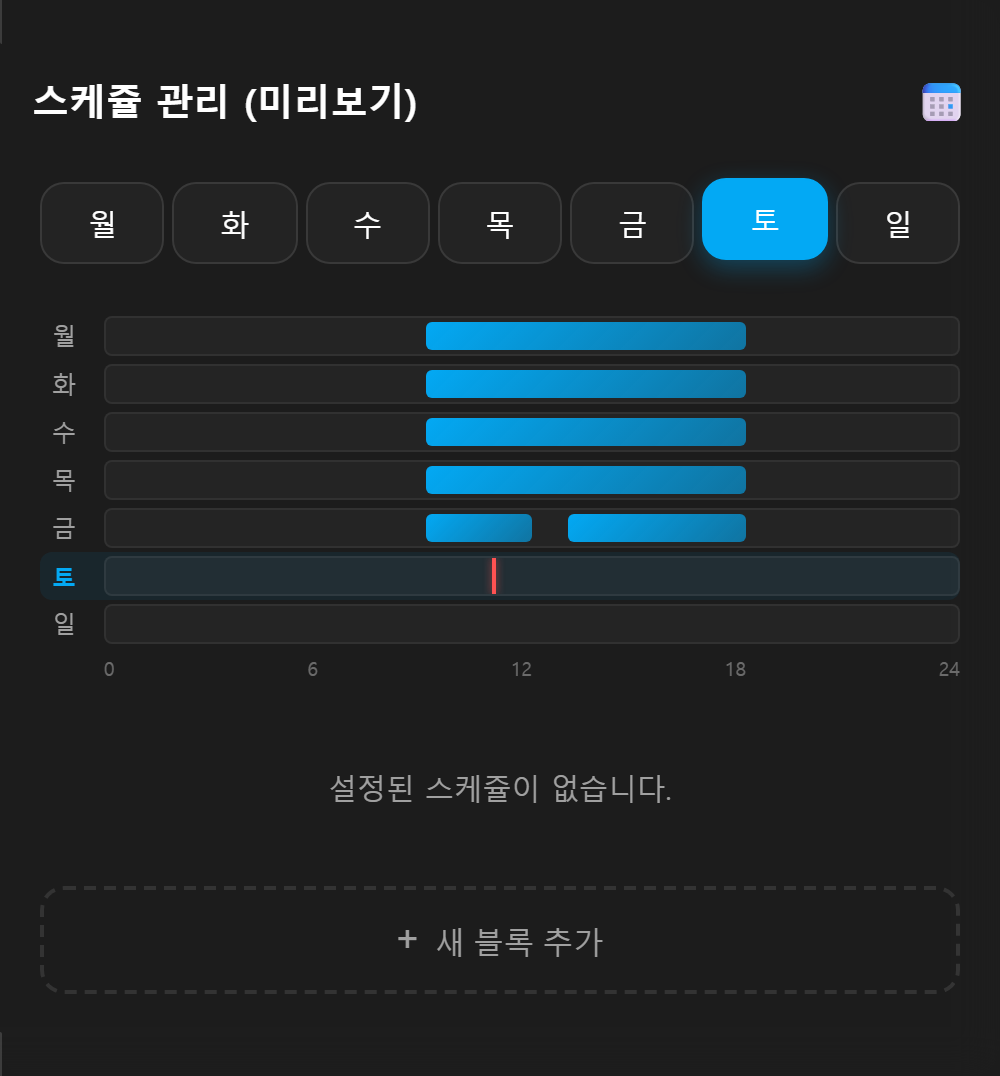
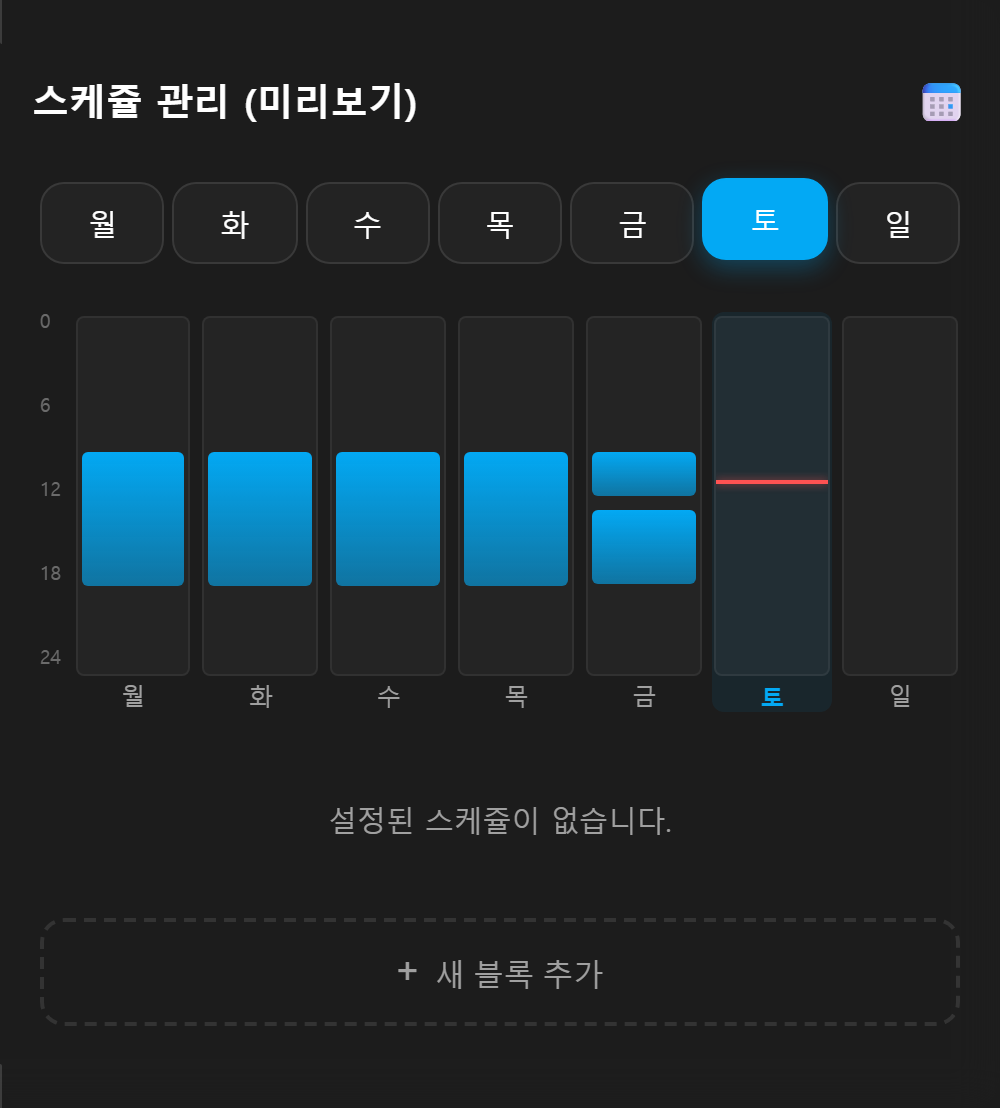
feat(timeline): change weekly timeline from horizontal to vertical layout

diff --git a/timer-schedule-card.js b/timer-schedule-card.js
@@ -417,43 +417,42 @@ class HaCustomScheduleCard extends LitElement {
 
             <!-- 주간 타임라인 -->
             <div class="weekly-timeline">
-              ${WEEKDAYS.map((day, idx) => {
-                const dayBlocks = renderData ? (renderData[day] || []) : [];
-                const isSelected = this._selectedDay === idx;
-                const MINUTES_IN_DAY = 1440;
-                return html`
-                  <div class="weekly-row ${isSelected ? 'selected' : ''}" @click="${() => { this._selectedDay = idx; this._showAddForm = false; }}">
-                    <span class="weekly-day-label">${this._t("daysShort")[idx]}</span>
-                    <div class="weekly-bar">
-                      ${dayBlocks.map(block => {
-                        const startMin = this._timeToMinutes(block.from);
-                        const endMin = this._timeToMinutes(block.to);
-                        const left = (startMin / MINUTES_IN_DAY) * 100;
-                        const width = ((endMin - startMin) / MINUTES_IN_DAY) * 100;
-                        return html`
-                          <div class="timeline-block" 
-                               style="left: ${left}%; width: ${Math.max(width, 0.5)}%;"
-                               title="${this._formatTime(block.from)} ~ ${this._formatTime(block.to)}">
-                          </div>
-                        `;
-                      })}
-                      ${(() => {
-                        const now = new Date();
-                        const todayIdx = (now.getDay() + 6) % 7;
-                        if (todayIdx !== idx) return '';
-                        const nowMin = now.getHours() * 60 + now.getMinutes();
-                        const pos = (nowMin / MINUTES_IN_DAY) * 100;
-                        return html`<div class="timeline-now" style="left: ${pos}%;"></div>`;
-                      })()}
+              <div class="timeline-time-labels">
+                <span>0</span><span>6</span><span>12</span><span>18</span><span>24</span>
+              </div>
+              <div class="weekly-columns">
+                ${WEEKDAYS.map((day, idx) => {
+                  const dayBlocks = renderData ? (renderData[day] || []) : [];
+                  const isSelected = this._selectedDay === idx;
+                  const MINUTES_IN_DAY = 1440;
+                  return html`
+                    <div class="weekly-col ${isSelected ? 'selected' : ''}" @click="${() => { this._selectedDay = idx; this._showAddForm = false; }}">
+                      <div class="weekly-bar-v">
+                        ${dayBlocks.map(block => {
+                          const startMin = this._timeToMinutes(block.from);
+                          const endMin = this._timeToMinutes(block.to);
+                          const top = (startMin / MINUTES_IN_DAY) * 100;
+                          const height = ((endMin - startMin) / MINUTES_IN_DAY) * 100;
+                          return html`
+                            <div class="timeline-block-v"
+                                 style="top: ${top}%; height: ${Math.max(height, 0.5)}%;"
+                                 title="${this._formatTime(block.from)} ~ ${this._formatTime(block.to)}">
+                            </div>
+                          `;
+                        })}
+                        ${(() => {
+                          const now = new Date();
+                          const todayIdx = (now.getDay() + 6) % 7;
+                          if (todayIdx !== idx) return '';
+                          const nowMin = now.getHours() * 60 + now.getMinutes();
+                          const pos = (nowMin / MINUTES_IN_DAY) * 100;
+                          return html`<div class="timeline-now-h" style="top: ${pos}%;"></div>`;
+                        })()}
+                      </div>
+                      <span class="weekly-day-label-v">${this._t("daysShort")[idx]}</span>
                     </div>
-                  </div>
-                `;
-              })}
-              <div class="timeline-labels">
-                <span class="weekly-day-label"></span>
-                <div class="timeline-labels-inner">
-                  <span>0</span><span>6</span><span>12</span><span>18</span><span>24</span>
-                </div>
+                  `;
+                })}
               </div>
             </div>
 
@@ -875,92 +874,99 @@ class HaCustomScheduleCard extends LitElement {
 
     /* ── 주간 타임라인 ── */
     .weekly-timeline {
+      display: flex;
+      gap: 6px;
       margin-bottom: 20px;
+      height: 200px;
     }
 
-    .weekly-row {
+    .timeline-time-labels {
       display: flex;
+      flex-direction: column;
+      justify-content: space-between;
+      padding-bottom: 22px;
+      flex-shrink: 0;
+    }
+
+    .timeline-time-labels span {
+      font-size: 0.6rem;
+      color: var(--custom-secondary);
+      opacity: 0.6;
+      line-height: 1;
+    }
+
+    .weekly-columns {
+      display: flex;
+      flex: 1;
+      gap: 4px;
+    }
+
+    .weekly-col {
+      display: flex;
+      flex-direction: column;
       align-items: center;
-      gap: 8px;
-      padding: 2px 0;
+      flex: 1;
+      gap: 4px;
       cursor: pointer;
       border-radius: 6px;
+      padding: 2px;
       transition: background 0.15s ease;
     }
 
-    .weekly-row:hover {
+    .weekly-col:hover {
       background: rgba(255,255,255,0.04);
     }
 
-    .weekly-row.selected {
+    .weekly-col.selected {
       background: rgba(3, 169, 244, 0.08);
     }
 
-    .weekly-row.selected .weekly-day-label {
+    .weekly-col.selected .weekly-day-label-v {
       color: var(--custom-primary);
       font-weight: 600;
     }
 
-    .weekly-day-label {
-      width: 24px;
-      font-size: 0.75rem;
-      color: var(--custom-secondary);
-      text-align: center;
-      flex-shrink: 0;
-    }
-
-    .weekly-bar {
+    .weekly-bar-v {
       position: relative;
       flex: 1;
-      height: 18px;
+      width: 100%;
       background: rgba(255,255,255,0.04);
       border-radius: 4px;
       border: 1px solid rgba(255,255,255,0.06);
       overflow: hidden;
     }
 
-    .timeline-block {
+    .timeline-block-v {
       position: absolute;
-      top: 2px;
-      bottom: 2px;
-      background: linear-gradient(135deg, var(--custom-primary), rgba(3, 169, 244, 0.6));
+      left: 2px;
+      right: 2px;
+      background: linear-gradient(180deg, var(--custom-primary), rgba(3, 169, 244, 0.6));
       border-radius: 3px;
-      min-width: 2px;
+      min-height: 2px;
       transition: opacity 0.2s ease;
     }
 
-    .timeline-block:hover {
+    .timeline-block-v:hover {
       opacity: 0.8;
       box-shadow: 0 0 6px rgba(3, 169, 244, 0.5);
     }
 
-    .timeline-now {
+    .timeline-now-h {
       position: absolute;
-      top: 0;
-      bottom: 0;
-      width: 2px;
+      left: 0;
+      right: 0;
+      height: 2px;
       background: #ff5252;
       box-shadow: 0 0 4px rgba(255, 82, 82, 0.6);
       z-index: 1;
     }
 
-    .timeline-labels {
-      display: flex;
-      align-items: center;
-      gap: 8px;
-      margin-top: 4px;
-    }
-
-    .timeline-labels-inner {
-      flex: 1;
-      display: flex;
-      justify-content: space-between;
-    }
-
-    .timeline-labels span {
-      font-size: 0.6rem;
+    .weekly-day-label-v {
+      font-size: 0.75rem;
       color: var(--custom-secondary);
-      opacity: 0.6;
+      text-align: center;
+      flex-shrink: 0;
+      line-height: 1;
     }
 
     /* ── 시간 블록 ── */

diff --git a/README.md b/README.md
@@ -8,7 +8,7 @@ Home Assistant의 순정 `schedule` 및 `timer` 헬퍼를 시각적으로 단일
 
 * **스케쥴 자동 생성 마법사 (초간편 설정)** — HA의 복잡한 스케쥴 도우미 생성과 자동화 구축을 클릭 한 번으로 끝냅니다. 대시보드 편집창(좌측)에서 제어할 기기만 선택하면, 자동으로 'Schedule 헬퍼'와 '기기 켜짐/꺼짐 자동화(Bridge)'가 즉시 생성되어 화면에 연결됩니다.
 * **단일 파일 구조** — `timer-schedule-card.js` 하나로 설치와 관리가 간단하며, HACS 커스텀 저장소 등록을 완벽하게 지원합니다.
-* **24시간 주간 타임라인** — 등록된 요일별 시간 블록을 24시간 바 형태로 시각화하여 일정을 한눈에 파악할 수 있으며, 현재 시각 표시선을 지원합니다.
+* **24시간 주간 타임라인** — 등록된 요일별 시간 블록을 세로 타임라인(열 = 요일, 축 = 0~24시) 형태로 시각화하여 일정을 한눈에 파악할 수 있으며, 현재 시각 표시선을 지원합니다.
 * **매일(Everyday) 통합 관리 탭** — 7개 요일의 공통 시간 블록을 '매일' 탭에서 교집합으로 추출하여 한 번에 확인하고 한꺼번에 삭제/추가할 수 있습니다.
 * **표준 HA UI 호환** — Home Assistant의 Sections 기반 레이아웃에 완벽히 대응하여 디스플레이 크기에 맞게 자동으로 높이를 조절(Auto Resizing)합니다.
 * **다크 테마 최적화** — 모던한 글래스모피즘(Glassmorphism) 스타일로 설계되어 Home Assistant의 다크/라이트 테마에 모두 어울립니다.
@@ -61,7 +61,7 @@ Home Assistant의 순정 `schedule` 및 `timer` 헬퍼를 시각적으로 단일
 
 ## 🛠 구성 요소 리스트
 
-1. **스케쥴 카드**: 24시간 주간 타임라인 관리 및 요일별 통합 제어
+1. **스케쥴 카드**: 세로 24시간 주간 타임라인 관리 및 요일별 통합 제어
 2. **타이머 카드**: 원형 프로그레스 바 및 기기 오프 타이머 지원
 
 ### 통합 설치 패키지 추가 시